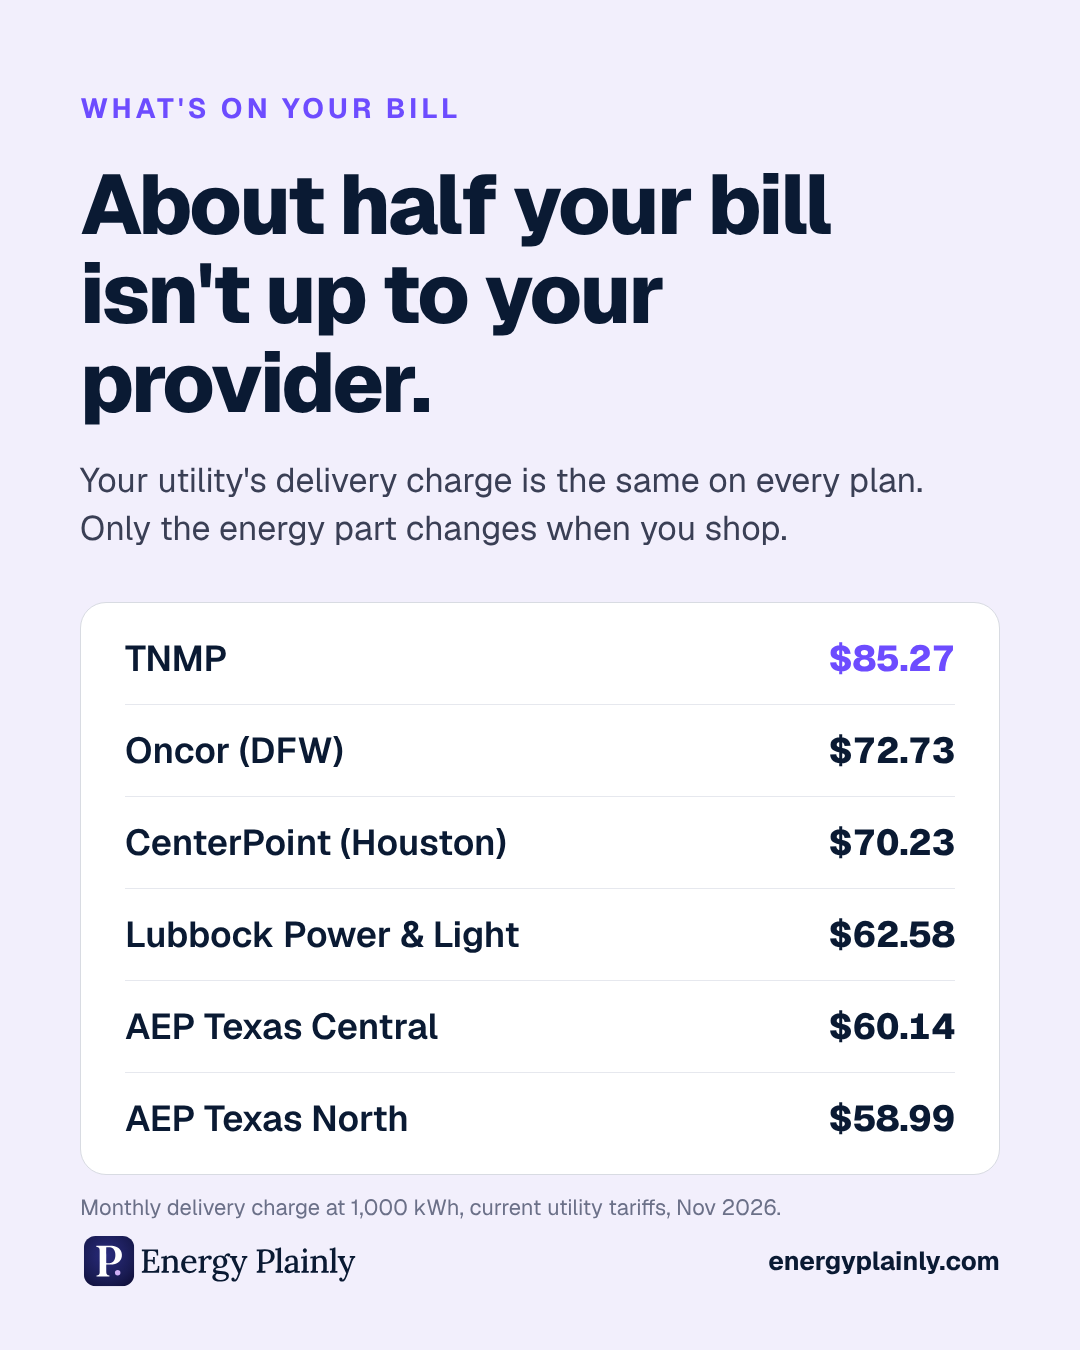
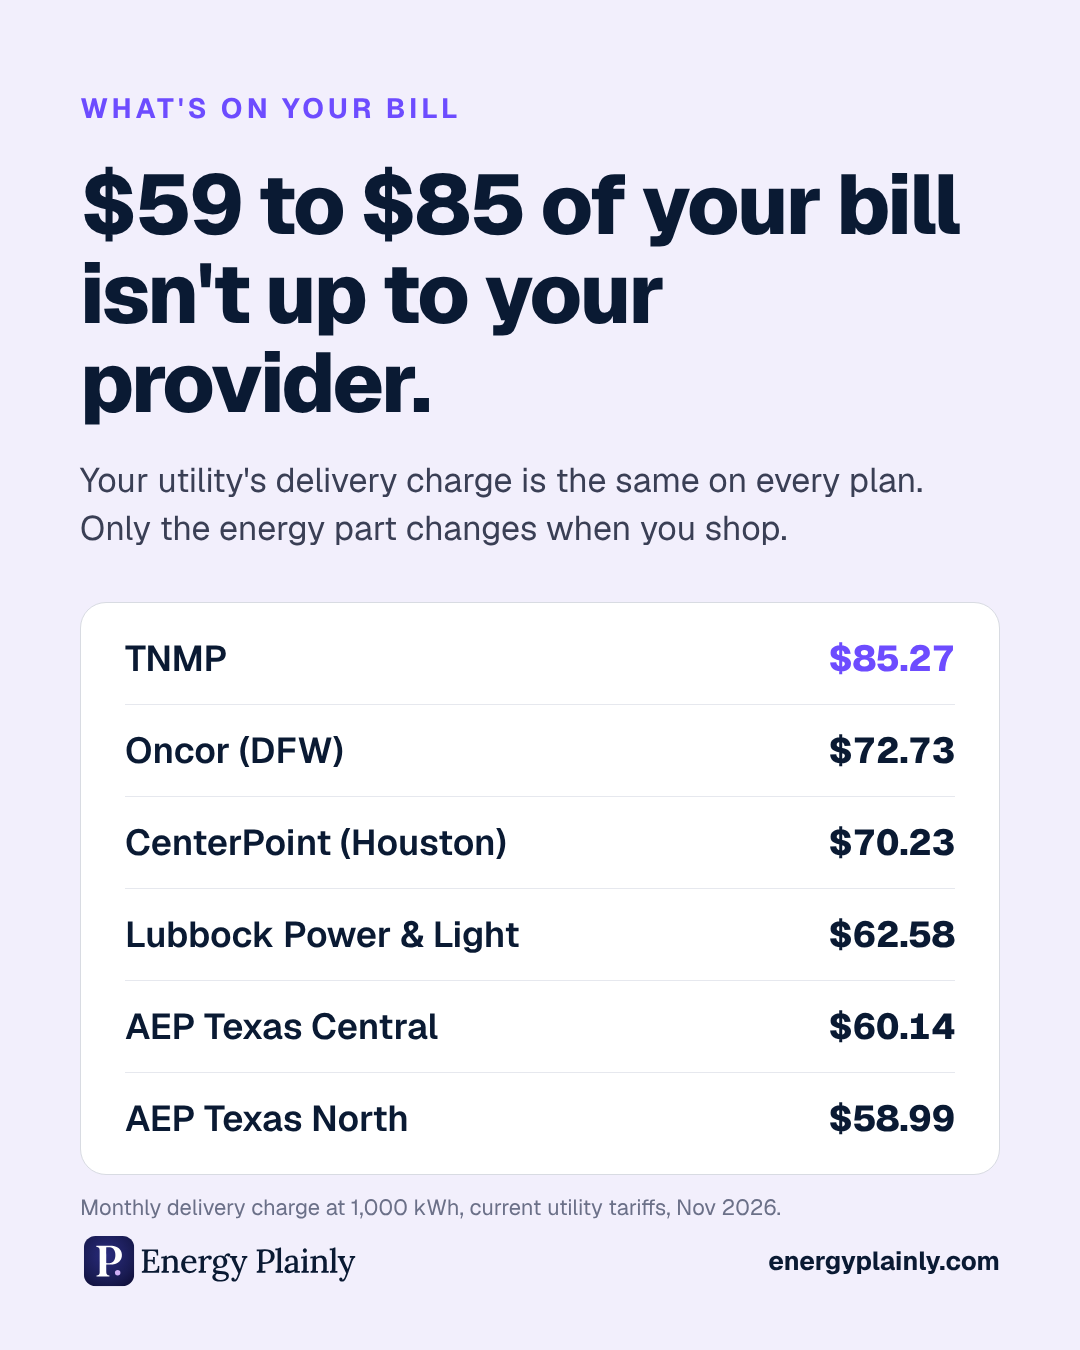
Reframe Monday graphic as new-customer offers; delivery headline in dollars
Claude-Session: https://claude.ai/code/session_016YujXcyb4c2Cg3KhuFQ5Hr

Changed region(s): [[0.0611, 0.1244, 0.8861, 0.1867]]

diff --git a/templates/v2/report-nov.html b/templates/v2/report-nov.html
@@ -10,9 +10,9 @@ h1{font-family:Lora,serif;font-weight:500;font-size:76px;line-height:1.1;margin-
 .save{margin-top:54px;font-size:46px;font-weight:700;line-height:1.25}.save em{font-style:normal;color:#B7A8FF}
 .note{position:absolute;left:80px;right:80px;bottom:150px;font-size:22px;color:#8E93B3;line-height:1.4}
 </style></head><body>
-<span class="tag">NOVEMBER RATE REPORT</span>
-<h1>The average Texas bill vs. the cheapest comparable plan</h1>
-<div class="row"><div class="box a"><div class="lbl">Average bill</div><div class="v">$132</div></div><div class="box c"><div class="lbl">Cheapest comparable</div><div class="v">$118</div></div></div>
-<p class="save">Switching saves about <em>$168 a year.</em><br>Most people never check.</p>
-<div class="note">Houston and Dallas-Fort Worth, 12-month fixed plans at 1,000 kWh a month, delivery included. Nov 1 to 15, 2026.</div>
+<span class="tag">NEW-CUSTOMER PRICES</span>
+<h1>What a new customer pays this month at 1,000 kWh</h1>
+<div class="row"><div class="box a"><div class="lbl">Average offer</div><div class="v">$132</div></div><div class="box c"><div class="lbl">Lowest offer</div><div class="v">$118</div></div></div>
+<p class="save">Renewal and month-to-month rates are often <em>much higher.</em><br>If you haven't shopped in a year, check.</p>
+<div class="note">Houston and Dallas-Fort Worth, 12-month fixed plans offered to new customers, 1,000 kWh a month, delivery included. Nov 1 to 15, 2026.</div>
 <footer><img src="logo-white.svg"><span>energyplainly.com</span></footer></body></html>

diff --git a/templates/v2/delivery-charges.html b/templates/v2/delivery-charges.html
@@ -9,7 +9,7 @@ h1{font-weight:800;font-size:84px;line-height:1.06;letter-spacing:-.03em;margin-
 .cap{font-size:22px;color:#6B7088;margin-top:18px}
 </style></head><body>
 <div class="eyebrow">WHAT'S ON YOUR BILL</div>
-<h1>About half your bill isn't up to your provider.</h1>
+<h1>$59 to $85 of your bill isn't up to your provider.</h1>
 <p class="sub">Your utility's delivery charge is the same on every plan. Only the energy part changes when you shop.</p>
 <div class="t">
 <div class="r hi"><span>TNMP</span><b>$85.27</b></div>
